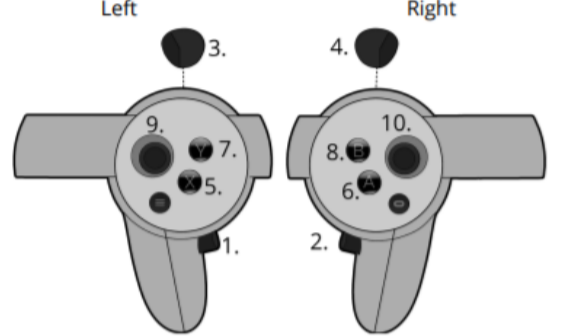
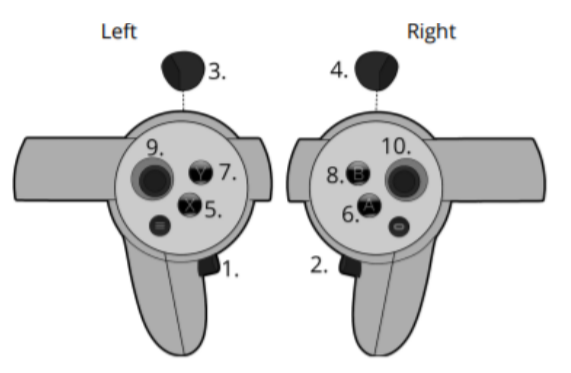
Fixed formatting/video links/gif/photo dimensions/replaced videos with gifs

Changed region(s): [[0.0, 0.0, 0.9825, 1.0], [0.1489, 0.0, 0.2382, 0.119], [0.7145, 0.7738, 0.7443, 0.8036]]

diff --git a/README.md b/README.md
@@ -2,8 +2,8 @@
 
 # Table of Contents
 - [Project Overview](#project-overview)
-- [Demo](#demo)
 - [Controls Manual](#controls-manual)
+- [Demo](#demo)
 - [Background](#background)
 - [Core Features](#core-features)
 - [System Architecture](#system-architecture)
@@ -43,35 +43,50 @@ The intent of this program is to manipulate dynamic water surfaces and oil paint
 # Controls Manual
 
 ### VR Headset Controls
-<p align="center">
-  <img src="Documentation\ReadmeMedia\ControllerDiagram.png" alt="ControllerDiagram" width="66%">
-</p>
+<div align="center">
+  <table>
+    <tr>
+      <td width="40%" align="center">
+        <table>
+          <thead>
+            <tr>
+              <th>No.</th>
+              <th>Controller Input</th>
+            </tr>
+          </thead>
+          <tbody>
+            <tr><td align="center">1</td><td>Left Grip Button</td></tr>
+            <tr><td align="center">2</td><td>Right Grip Button</td></tr>
+            <tr><td align="center">3</td><td>Left Trigger</td></tr>
+            <tr><td align="center">4</td><td>Right Trigger</td></tr>
+            <tr><td align="center">5</td><td>X Button</td></tr>
+            <tr><td align="center">6</td><td>A Button</td></tr>
+            <tr><td align="center">7</td><td>Y Button</td></tr>
+            <tr><td align="center">8</td><td>B Button</td></tr>
+            <tr><td align="center">9</td><td>Left Thumbstick</td></tr>
+            <tr><td align="center">10</td><td>Right Thumbstick</td></tr>
+          </tbody>
+        </table>
+      </td>
+      <td width="60%" align="center">
+        <img src="Documentation\ReadmeMedia\ControllerDiagram.png" alt="ControllerDiagram" width="100%">
+      </td>
+    </tr>
+  </table>
+</div>
 
-| Number      | Description      |
-| ----------- | ---------------- |
-| 1           | Left Grip Button |
-| 2           | Right Grip Button|
-| 3           | Left Trigger     |
-| 4           | Right Trigger    |
-| 5           | X button         |
-| 6           | A Button         |
-| 7           | Y Button         |
-| 8           | B Button         |
-| 9           | Left Thumbstick  |
-| 10          | Right Thumbstick |
-
-**Walking** - left thumbstick \
-**Grab paintballs** - point controller at the paintball and hold grip button (left or right) \
-**Button Selection** (i.e. colour selection, settings...) - point controller at the button and press the trigger\
-**Hand-water Interaction** - touch the water with the controller
+- **Walking** - Left thumbstick 
+- **Grab paintballs** - Point controller at the paintball and hold grip button (Left or Right) 
+- **Button Selection** (i.e. Colour selection, settings...) - Point controller at the button and press the trigger
+- **Hand-water Interaction** - Touch the water with the controller
 
 ### Unity XR Device Simulator Controls
 
-**Walking** - *WASD* \
-**View** - mouse (view control can be paused/unpaused by pressing tab) \
-**Grab Paintballs** - point controller projection at a paintball and hold g key \
-**Button selection** - mouse click \
-**Hand-water Interaction** - touch virtual controllers against the water
+- **Walking** - *WASD* 
+- **View** - Mouse (View control can be paused/unpaused by pressing tab) 
+- **Grab Paintballs** - Point controller projection at a paintball and hold G key 
+- **Button selection** - Mouse click 
+- **Hand-water Interaction** - Touch virtual controllers against the water
 
 
 
@@ -88,7 +103,7 @@ The second demo highlights the fluid display and colour blending behaviour acros
 
 <p align="center">
   <a href="https://raw.githubusercontent.com/COMP2281/software-engineering-group25-26-11/main/Documentation\ReadmeMedia\FluidDisplay.mp4">
-    <img src="Documentation\ReadmeMedia\image-21.png" alt="Fluid Display" width="66%">
+    <img src="Documentation\ReadmeMedia\FluidDisplay.gif" alt="Fluid Display" width="66%">
   </a>
 </p>
 
@@ -119,8 +134,8 @@ Sebastian's base system models fluid with **Smoothed-Particle Hydrodynamics (SPH
     - Ripple responses are retained across interaction updates
 
 <p align="center">
-  <a href="https://raw.githubusercontent.com/COMP2281/software-engineering-group25-26-11/main/Documentation\Media\ScreenResize.mp4">
-    <img src="Documentation\ReadmeMedia\image-16.png" alt="Particle System Demo" width="66%">
+  <a href="https://raw.githubusercontent.com/COMP2281/software-engineering-group25-26-11/main/Documentation\ReadmeMedia\ScreenResize.mp4">
+    <img src="Documentation\ReadmeMedia\ScreenResize.gif" alt="Particle System Demo" width="66%">
   </a>
 </p>
 
@@ -231,7 +246,7 @@ Sebastian's base system models fluid with **Smoothed-Particle Hydrodynamics (SPH
 
 <p align="center">
   <a href="https://raw.githubusercontent.com/COMP2281/software-engineering-group25-26-11/main/Documentation\ReadmeMedia\MeshSystem.mp4">
-    <img src="Documentation\ReadmeMedia\image-22.png" alt="Particle System Demo" width="66%">
+    <img src="Documentation\ReadmeMedia\MeshSystem.gif" alt="Particle System Demo" width="66%">
   </a>
 </p>
 
@@ -336,7 +351,7 @@ To approximate incompressible behaviour, the solver estimates local density and 
 
 <p align="center">
   <a href="https://raw.githubusercontent.com/COMP2281/software-engineering-group25-26-11/main/Documentation\ReadmeMedia\ParticleSystem.mp4">
-    <img src="Documentation\ReadmeMedia\image-5.png" alt="Particle System Demo" width="66%">
+    <img src="Documentation\ReadmeMedia\ParticleSystem.gif" alt="Particle System Demo" width="66%">
   </a>
 </p>
 
